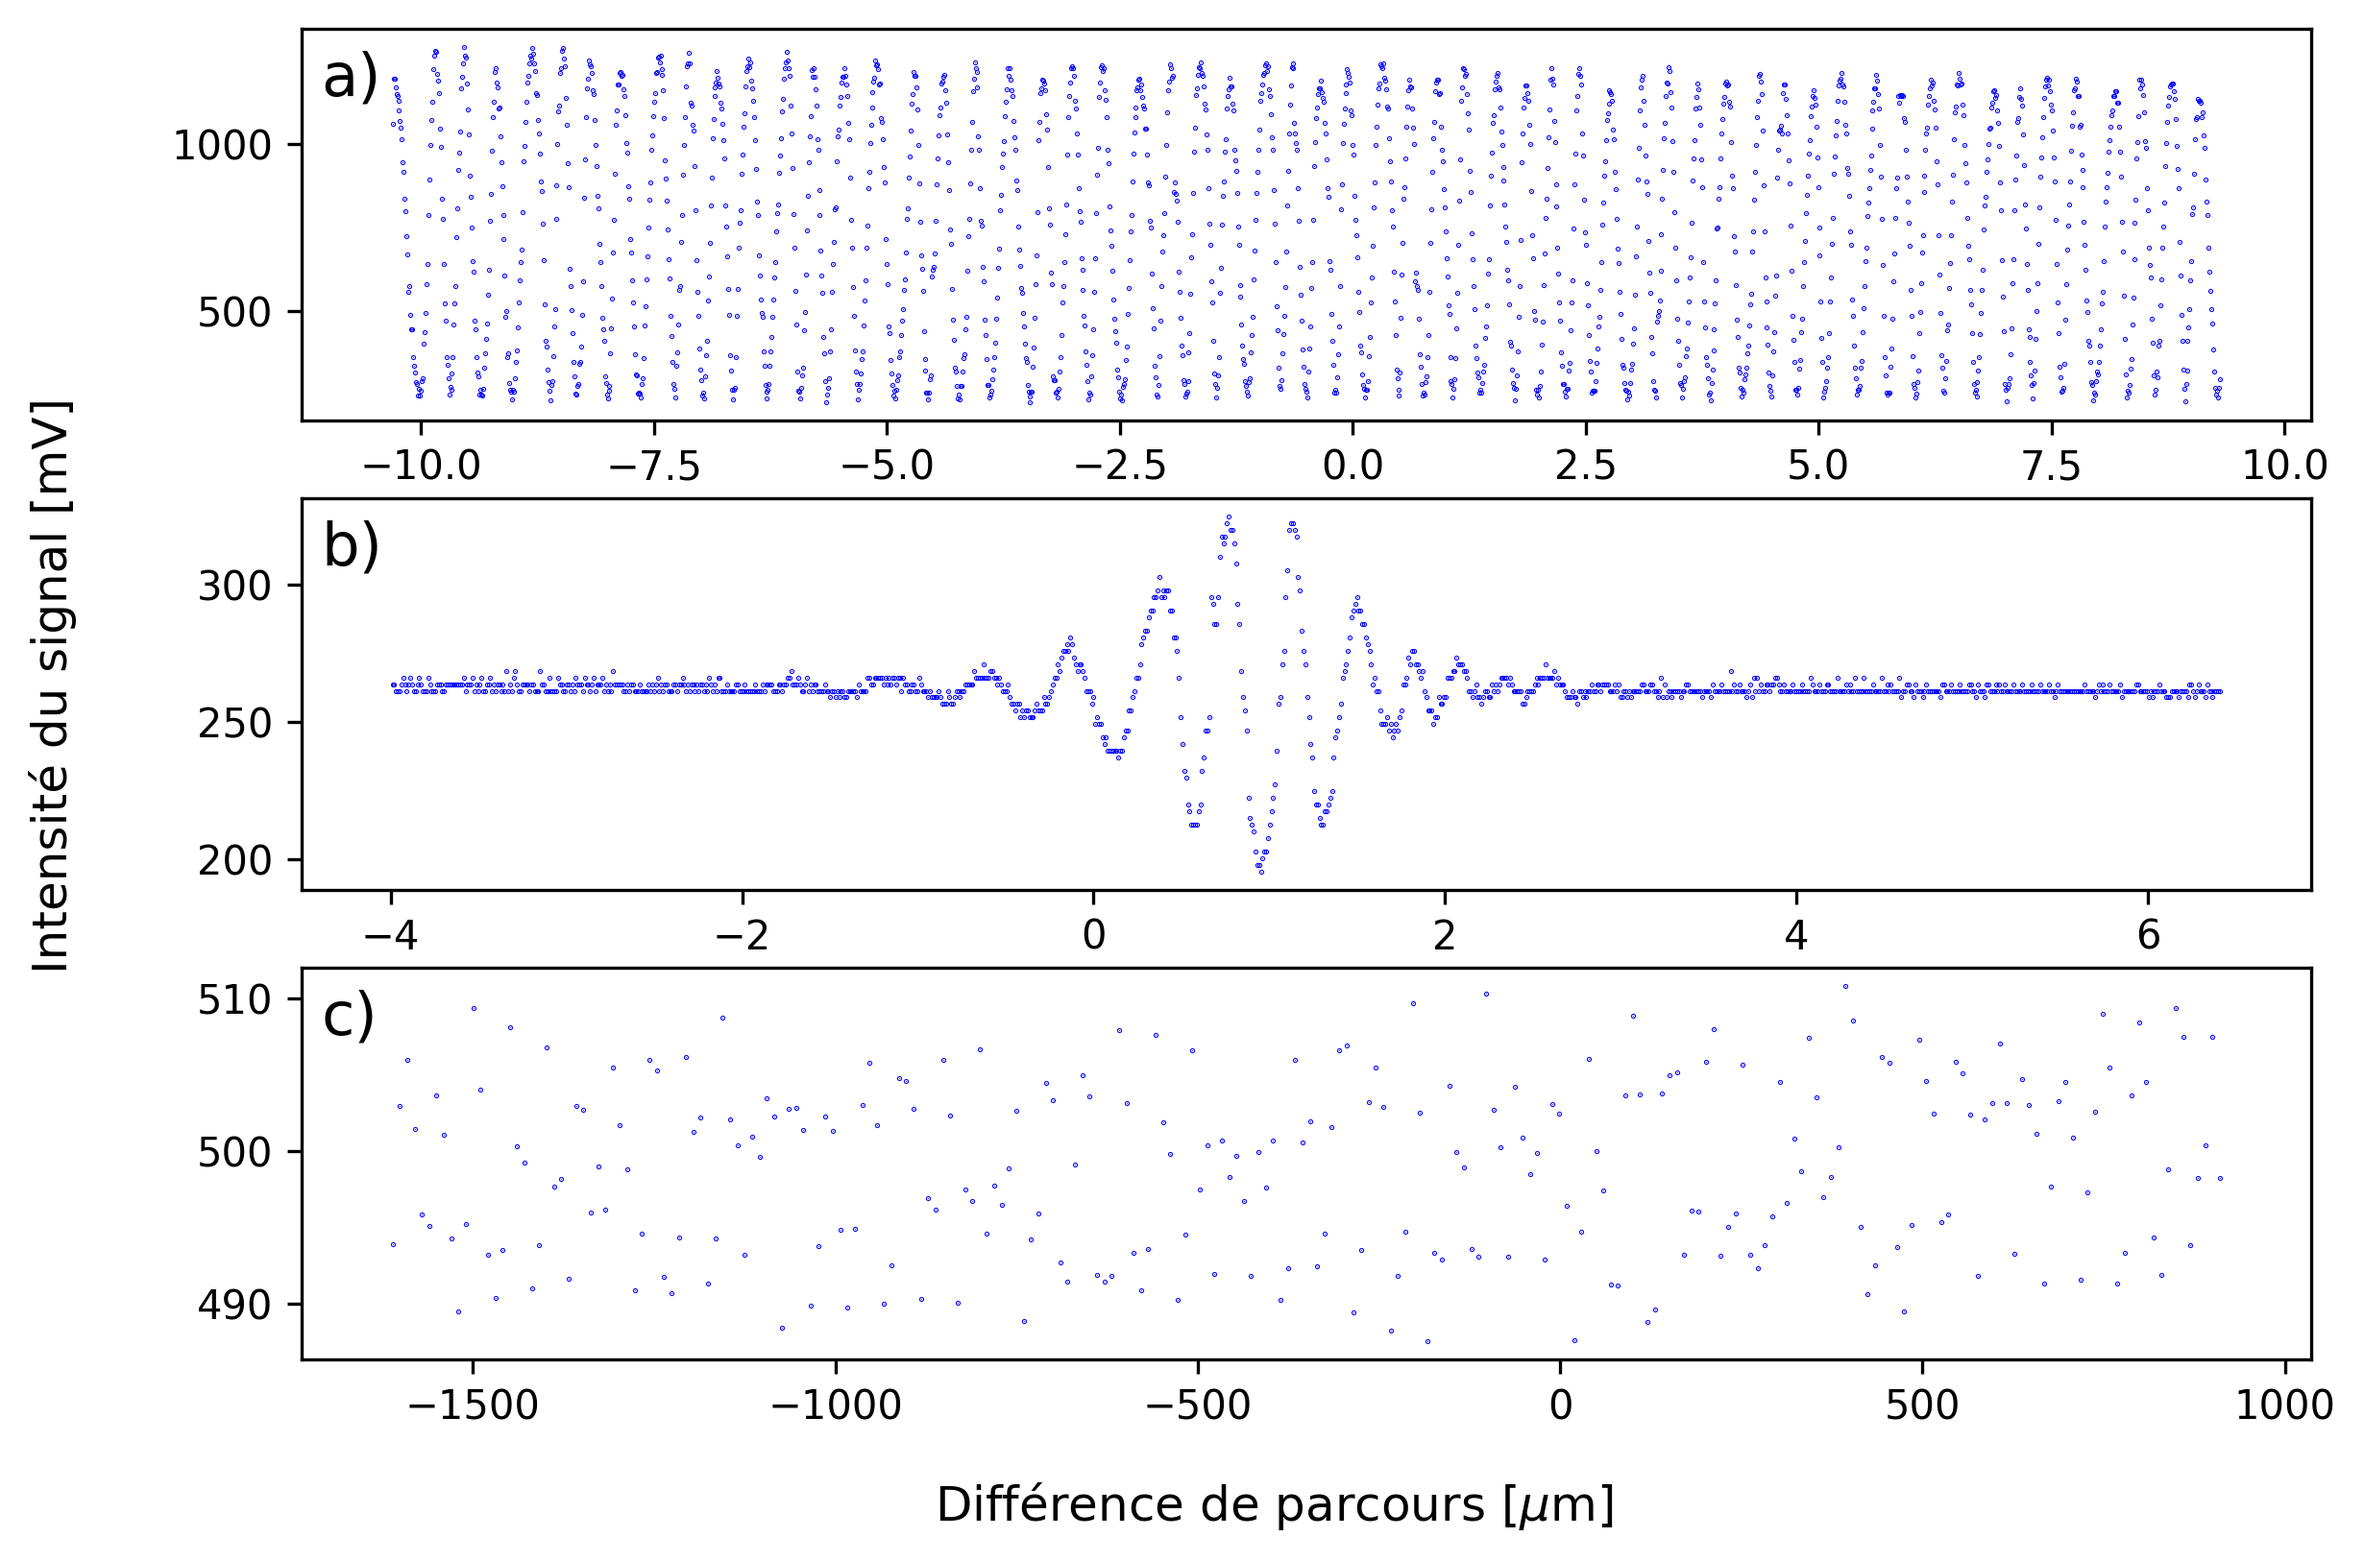
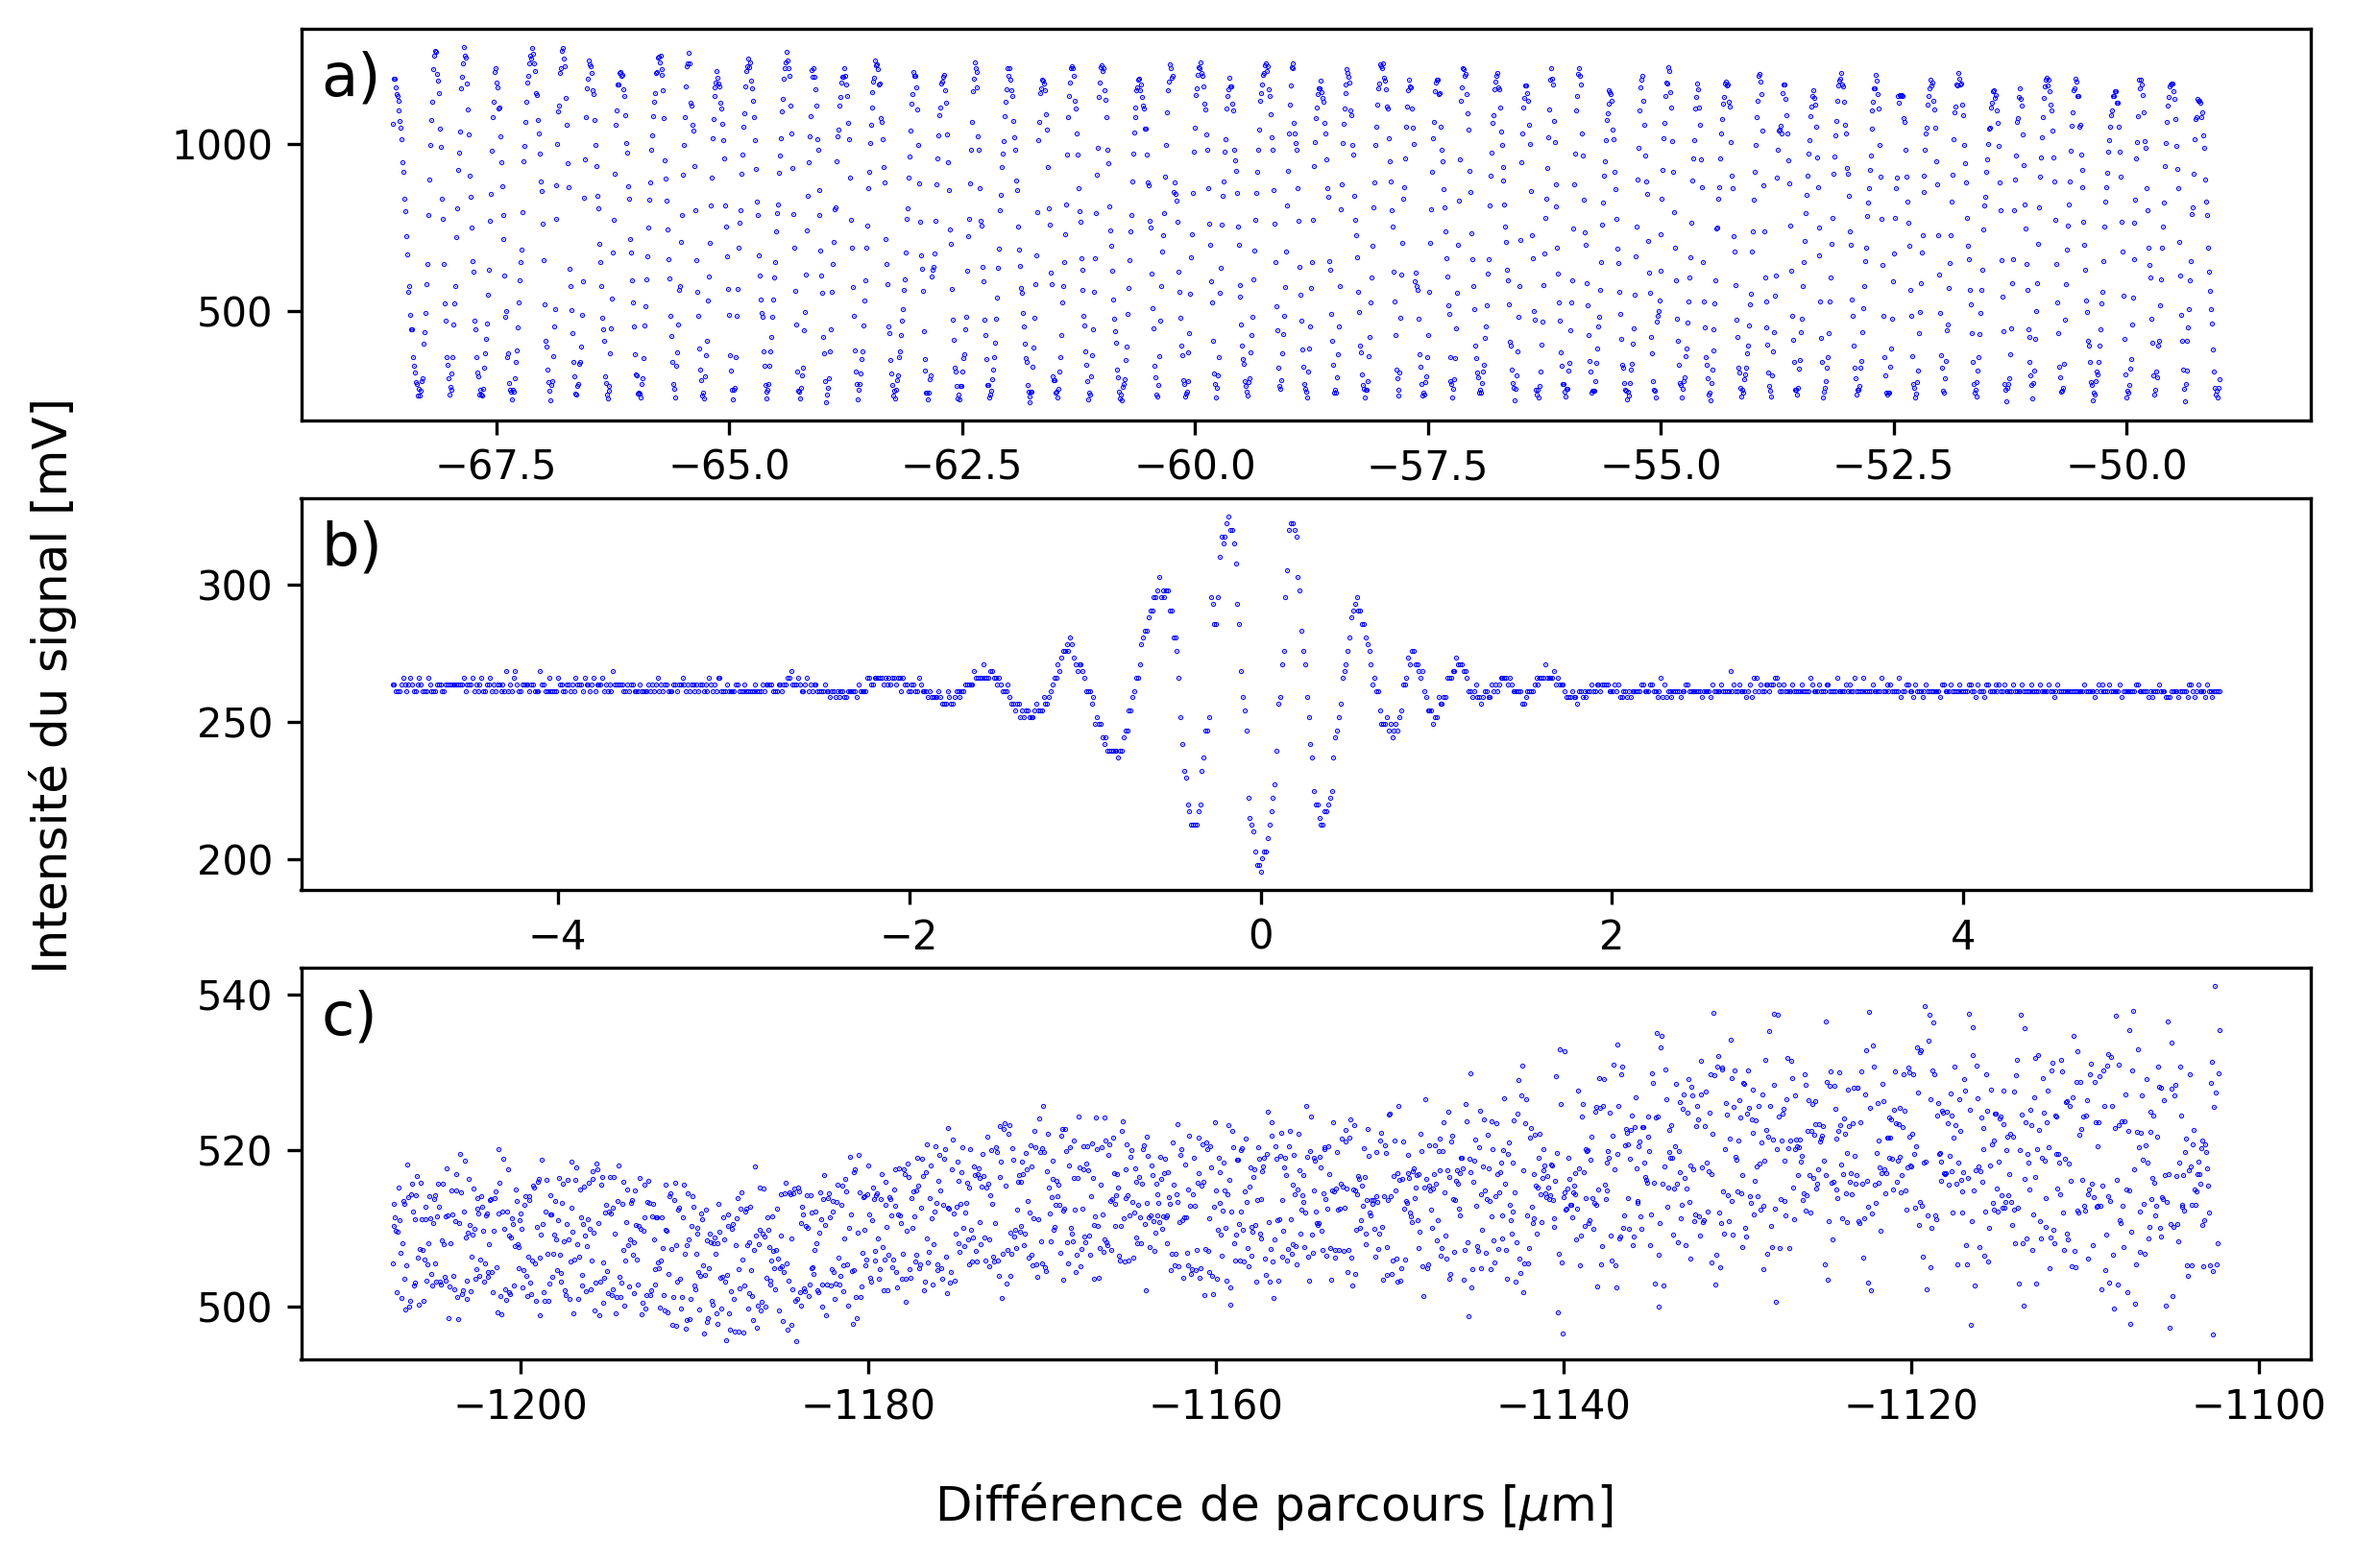
final michelson pt1

diff --git a/michelson/main.py b/michelson/main.py
@@ -20,18 +20,20 @@ def plot(filename):
 # plot("michelson/data_csv/laser.csv")
 # plot("michelson/data_csv/tungsten.csv")
 # plot("michelson/data_csv/HG1.csv")
-    
+
 
 def find_DPZ():
     # Uncertainties for the relative dpz and the start of the calibration are chosen to be half of the data steps
+    # All values are given in μm
     data = get_csv_data("michelson/data_csv/tungsten.csv")
-    relative_dpz = ufloat(data[np.argmin(data[:,2]),1], np.diff(data[:2,1])/2)
-    
-    calib_start = ufloat(1.6555700E+5/9.8, np.diff(data[:2,1])/2)
+    unc = (6.4087213 - -3.9889987) / 1.0280000E+3 / 2 * 10          # times 10 to correct the uncertainty
+    relative_dpz = ufloat(data[np.argmin(data[:,2]),1], unc)
+    calib_start = ufloat(1.6555700E+5/9.8 + 3.9889987, unc)
     return relative_dpz + calib_start
 
 
 # print(f"DPZ: {find_DPZ()} μm")
+# DPZ: 16898.51 ± 0.07 μm
 
 
 def make_graph():
@@ -39,20 +41,32 @@ def make_graph():
     fig.set_size_inches(9,6)
     DPZ = find_DPZ().nominal_value
 
-    calibrations = [
+    abs_calib = np.array([
         1.6493300E+5 / 9.8,
         1.6555700E+5 / 9.8,
         1.5377300E+5 / 9.8
-    ]
+    ])
+
+    zero_point = np.array([
+        1.0306601E+1,
+        3.9889987,
+        6.8855788E+1
+    ])
+
+    x_offsets = abs_calib + zero_point - DPZ
     
+    # Get arrays and remove the relative calibrations to calibrate in absolute
     raw_arrays = [
         get_csv_data("michelson/data_csv/laser.csv"),
         get_csv_data("michelson/data_csv/tungsten.csv"),
         get_csv_data("michelson/data_csv/HG2.csv")
     ]
 
-    aligned_arrays = [raw_array + calibration - DPZ for raw_array, calibration in zip(raw_arrays, calibrations)]
-
+    aligned_arrays = []
+    for raw_array, x_offset in zip(raw_arrays, x_offsets):
+        x_size = raw_array.shape[0]
+        aligned_arrays.append(np.tile([0,x_offset,0], (x_size,1)) + raw_array)
+    
     # Set subplot labels
     for row, text in zip(range(3), ["a)","b)","c)"]):
         axs[row].text(0.01, 0.83, text, fontsize=15, transform=axs[row].transAxes)
@@ -63,10 +77,25 @@ def make_graph():
         fig.supxlabel(r"Différence de parcours [$\mu$m]")
         fig.supylabel("Intensité du signal [mV]")
 
-        axs[row_number].plot(array[:,1], array[:,2], "bo", markersize=0.25)
+        axs[row_number].plot(array[:,1], array[:,2], "b-", markersize=0.25)
 
     # plt.savefig("michelson/figures/coherent_distance.png", dpi=300, bbox_inches="tight")
     plt.show()
 
 
-make_graph()
+# make_graph()
+
+
+def find_tungsten_coherent_distance():
+    shape = 200, 5
+    threshold = 3
+    data = get_csv_data("michelson/data_csv/tungsten.csv")[:-28,:]     # Get only 1000 points
+    mean_intensity = np.mean(data[:,2].reshape(*shape), axis=1)
+    mean_position = np.mean(data[:,1].reshape(*shape), axis=1)[:-1]
+
+    print(mean_position[np.abs(np.diff(mean_intensity)) > threshold])
+    
+    unc = 0.3
+    print(ufloat(2, unc) - ufloat(-2, unc))
+
+# find_tungsten_coherent_distance()
